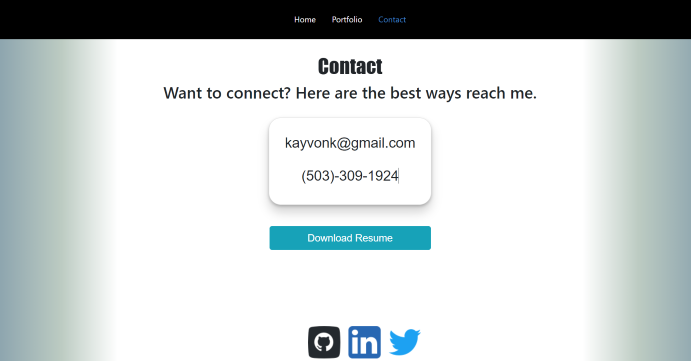
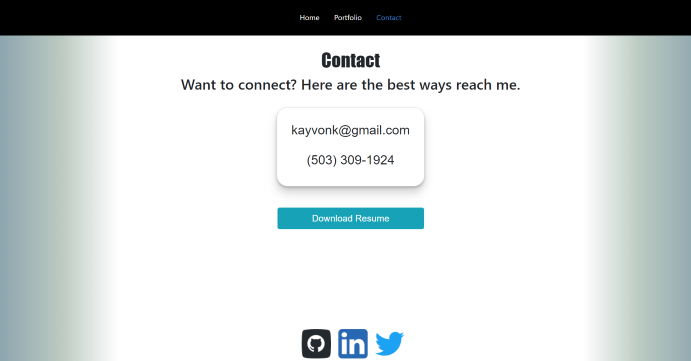
Updated footer styling and README thumbnails

diff --git a/src/components/CardBtn/index.js b/src/components/CardBtn/index.js
@@ -2,8 +2,8 @@ import React from "react";
 import "./style.css";
 
 function CardBtn() {
-  return <a className="btn btn-info btn-lg resumeBtn" href="./assets/Resume6.2.21.pdf"
-    download="./assets/Resume6.2.21.pdf" role="button">Download Resume</a>;
+  return <a className="btn btn-info btn-lg resumeBtn" href="./assets/KazeminiResume6.2.21.pdf"
+    download="Kazemini_Resume_6.2.21.pdf" role="button">Download Resume</a>;
 }
 
 export default CardBtn;

diff --git a/src/pages/Contact/index.js b/src/pages/Contact/index.js
@@ -17,7 +17,7 @@ function ContactPage() {
           <div className="cardText">
             <h3>kayvonk@gmail.com </h3>
             <br />
-            <h3>(503)-309-1924</h3>
+            <h3>(503)&nbsp;309-1924</h3>
           </div>
         </ContactCard>
       </Container>

diff --git a/src/components/Footer/style.css b/src/components/Footer/style.css
@@ -96,6 +96,6 @@ margin: 0 .5rem;
 
 @media (min-width: 1200px) {
 .footer {
-  margin-left: 44%;
+  margin-left: 43%;
   }
 }
